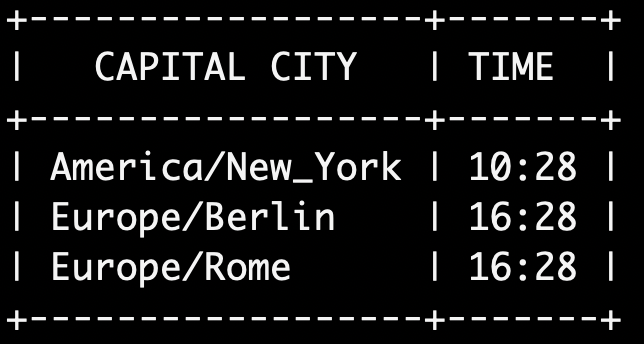
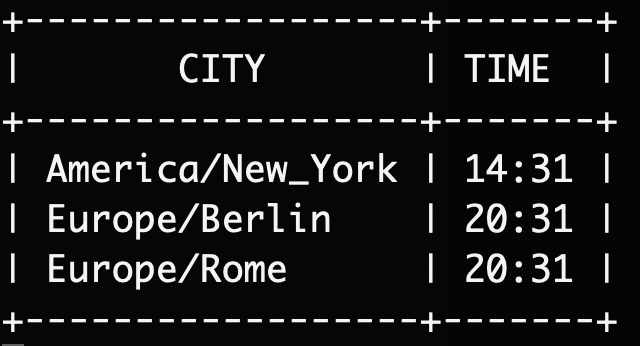
Removed capital dependencies

diff --git a/main.go b/main.go
@@ -9,39 +9,39 @@ import (
 	"github.com/gosuri/uilive"
 )
 
-var capitals string
+var cities string
 
 func init() {
-	flag.StringVar(&capitals, "capitals", "", "Insert the capitals to get time from [Continent1/Capital1, Continent2/Capital2, etc]")
+	flag.StringVar(&cities, "cities", "", "Insert the cities to get time from [Continent1/City1, Continent2/City2, etc]")
 	flag.Parse()
 }
 
 func main() {
-	// Split capitals parameter to get a list of the capitals
-	capitalCities := strings.Split(capitals, ",")
+	// Split cities parameter to get a list of the cities
+	cs := strings.Split(cities, ",")
 
 	// Create a writer to refresh the printed output
 	writer := uilive.New()
 	writer.Start()
 	defer writer.Stop()
 
-	ch := make(chan utils.PrintFields, len(capitalCities))
+	ch := make(chan utils.PrintFields, len(cs))
 
-	// Mapping capitals with their last revealed time
+	// Mapping cities with their last revealed time
 	out := make(map[string]string)
 
 	for {
-		// Triggering concurrent goroutines to get the times of all requested capitals
-		for _, capital := range capitalCities {
-			go utils.GetTime(capital, ch)
+		// Triggering concurrent goroutines to get the times of all requested cities
+		for _, c := range cs {
+			go utils.GetTime(c, ch)
 		}
 
 		// Waiting for the channel to be empty and checking if the news are valid times
-		for i := 0; i < len(capitalCities); i++ {
+		for i := 0; i < len(cs); i++ {
 			tempPf := <-ch
 
 			if tempPf.DateTime != "" {
-				out[tempPf.Capital] = tempPf.DateTime
+				out[tempPf.City] = tempPf.DateTime
 			}
 		}
 

diff --git a/internal/utils/utils.go b/internal/utils/utils.go
@@ -19,15 +19,15 @@ type CityClock struct {
 
 // PrintFields is a struct used as a channel to model the output to print
 type PrintFields struct {
-	Capital  string
+	City     string
 	DateTime string
 }
 
-// GetTime writes the current time of capital to the channel
+// GetTime writes the current time of city to the channel
 // worldtimeapi.org is queried
-func GetTime(capital string, ch chan<- PrintFields) {
+func GetTime(city string, ch chan<- PrintFields) {
 
-	reply, err := http.Get(fmt.Sprintf("http://worldtimeapi.org/api/timezone/%s", capital))
+	reply, err := http.Get(fmt.Sprintf("http://worldtimeapi.org/api/timezone/%s", city))
 	if err != nil {
 		ch <- PrintFields{}
 		reply.Body.Close()
@@ -55,7 +55,7 @@ func GetTime(capital string, ch chan<- PrintFields) {
 
 	dateTime := string(cc.DateTime[strings.Index(cc.DateTime, "T")+1 : strings.Index(cc.DateTime, "T")+6])
 
-	ch <- PrintFields{Capital: capital, DateTime: dateTime}
+	ch <- PrintFields{City: city, DateTime: dateTime}
 }
 
 // PrintOutput generates an ASCII table on the fly
@@ -68,7 +68,7 @@ func PrintOutput(out map[string]string, writer *uilive.Writer) {
 	sort.Strings(keys)
 
 	table := tablewriter.NewWriter(writer)
-	table.SetHeader([]string{"Capital City", "Time"})
+	table.SetHeader([]string{"City", "Time"})
 
 	for _, k := range keys {
 		table.Append([]string{k, out[k]})

diff --git a/README.md b/README.md
@@ -1,20 +1,20 @@
 # WordClock
-Tool to get the current time of any capital city of the world.
+Tool to get the current time of any big city of the world.
 Usage of __goroutines__ to query __worldtimeapi.org__ API server.
 
 ## Usage
-The capital cities to get the current time from have to be passed in the _capitals_ parameter.
-That parameter is a comma separated list of cities expressed as `Continent/Capital`.
+The cities to get the current time from have to be passed in the _cities_ parameter.
+That parameter is a comma separated list of cities expressed as `Continent/City`.
 
 ```bash
-    -capitals string
-    Insert the capitals to get time from [Continent1/Capital1, Continent2/Capital2, etc]
+    -cities string
+    Insert the cities to get time from [Continent1/City1, Continent2/City2, etc]
 ```
 
 ### Example
 The following command:
 ```
-    go run main.go --capitals Europe/Berlin,Europe/Rome,America/New_York
+    go run main.go --cities Europe/Berlin,Europe/Rome,America/New_York
 ```
 produces the following output:
 
